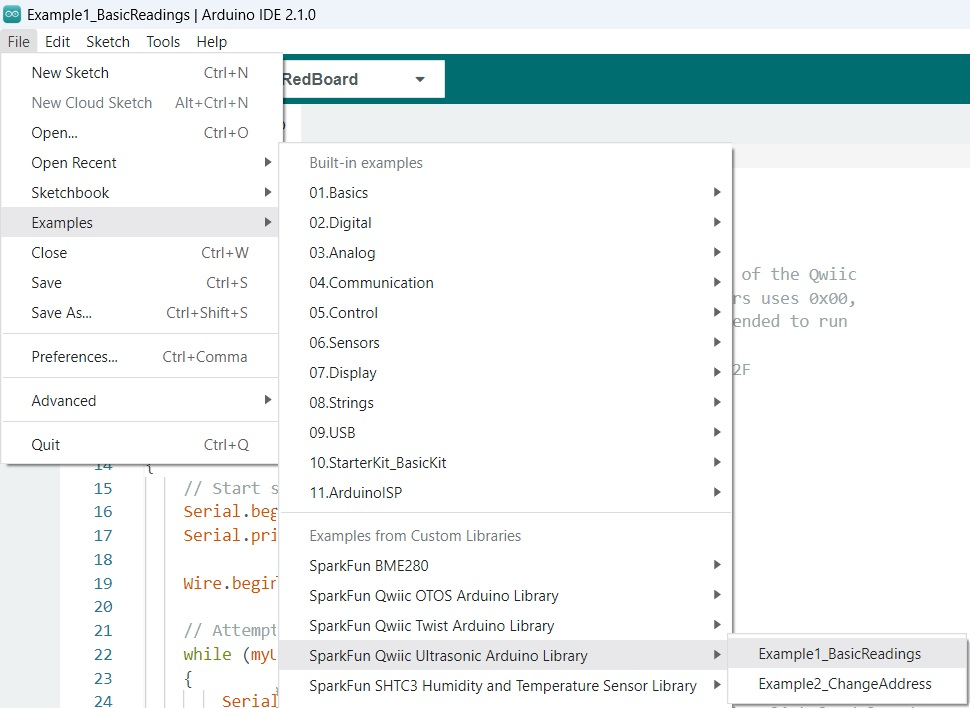
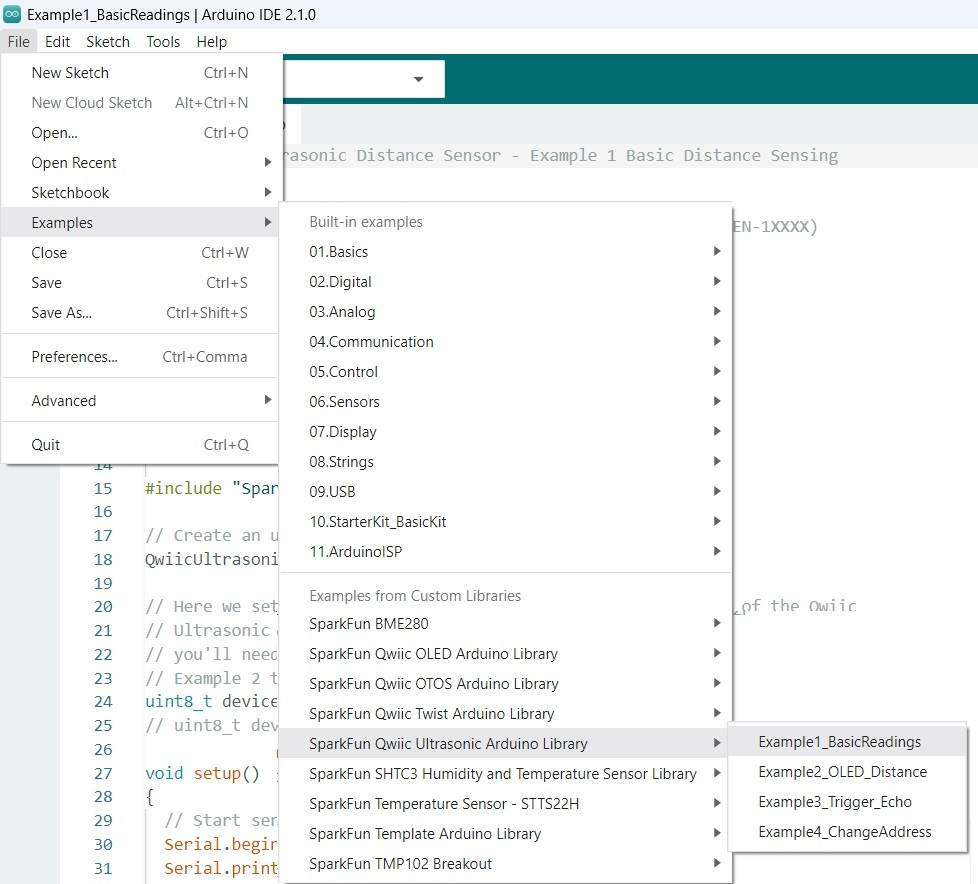
Example updates

diff --git a/docs/arduino_example.md b/docs/arduino_example.md
@@ -19,7 +19,7 @@ Alternatively, you can expand the link below and copy and paste the code into a 
 
 ??? "Example 1 Arduino Code"
 	```
-	--8<-- "https://raw.githubusercontent.com/sparkfun/SparkFun_Qwiic_Ultrasonic_Arduino_Library/main/examples/Example1_BasicReadings/Example1_BasicReadings.ino"
+	--8<-- "https://raw.githubusercontent.com/sparkfun/SparkFun_Qwiic_Ultrasonic_Arduino_Library/v10/examples/Example1_BasicReadings/Example1_BasicReadings.ino"
 	```
 
 
@@ -34,12 +34,18 @@ Note the output change when the mouse is moved closer to the sensor.
 
 
 
-<!--
-### Expanding Example 1
+### Example 2
 
 Let's add in an LCD screen to display our measurements. 
 
-To display the sensor readings on the connected Qwiic OLED, we will use three Adafruit libraries:
+To display the sensor readings on the connected Qwiic OLED, we will need to install the SparkFun Qwiic OLED library. You can install this library to automatically in the Arduino IDE's Library Manager by searching for "**SparkFun Qwiic OLED**". Or you can manually download it from the [GitHub repository](https://github.com/sparkfun/SparkFun_Qwiic_OLED_Arduino_Library). 
+
+<center>
+	[Download the SparkFun Qwiic OLED Library (ZIP)](https://github.com/sparkfun/SparkFun_Qwiic_OLED_Arduino_Library/archive/refs/heads/main.zip){ .md-button .md-button--primary }
+</center>
+
+
+<!-- use three Adafruit libraries:
 
 * [Adafruit BusIO GitHub](https://github.com/adafruit/Adafruit_BusIO)
 * [Adafruit GFX GitHub](https://github.com/adafruit/Adafruit-GFX-Library)
@@ -83,11 +89,43 @@ You can install this library to automatically in the Arduino IDE's Library Manag
 
 </div>
 
+-->
 
 
-<!--
+To find Example 2, go to **File** > **Examples** > **SparkFun Qwiic Ultrasonic Arduino Library** > **Example2_OLED_Distance**:
+
+
+<figure markdown>
+[![Ultrasonic Arduino Example 2](assets/img/Example2_Menu.jpg){ width="90%" }](assets/img/Example2_Menu.jpg "Click to enlarge")
+<figcaption markdown>Finding Example 2</figcaption>
+</figure>
+
+Alternatively, you can expand the link below and copy and paste the code into a shiny new Arduino sketch: 
+
+??? "Example 2 Arduino Code"
+	```
+	--8<-- "https://raw.githubusercontent.com/sparkfun/SparkFun_Qwiic_Ultrasonic_Arduino_Library/v10/examples/Example2_OLED_Distance/Example2_OLED_Distance.ino"
+	```
+
+We have code, now let's hookup the hardware! The Qwiic system makes this example quite literally plug and play. Use Qwiic cables to make your hardware setup look like this: 
+
+<figure markdown>
+[![Example 2 Hardware Hookup](assets/img/24805-Ultrasonic-Distance-Sensor-Action-4.jpg){ width="90%" }](assets/img/24805-Ultrasonic-Distance-Sensor-Action-4.jpg "Click to enlarge")
+<figcaption markdown>Example 2 Hardware Hookup</figcaption>
+</figure>
+
+
+Make sure you've selected the correct board and port in the Tools menu and then hit the upload button. Once the code has finished uploading, you should see something similar to the following. 
+
+<figure markdown>
+[![Ultrasonic Distance Sensor Arduino Example 2 Output](assets/img/Example2_Output.jpg){ width="90%" }](assets/img/Example2_Output.jpg "Click to enlarge")
+<figcaption markdown>Example 2 Output</figcaption>
+</figure>
+
+
 Try moving an object (like your hand or a dinosaur) closer to the sensor - notice the output of the OLED shows you how close the object is! Grr. Rawr!
 
+<!--
 <figure markdown>
 [![Oh no! A dinosaur is approaching distance sensor and now it's only 61mm away!](https://cdn.sparkfun.com/assets/learn_tutorials/1/5/9/8/Ultrasonic_HC-SR04.gif){ width="90%" }](https://cdn.sparkfun.com/assets/learn_tutorials/1/5/9/8/Ultrasonic_HC-SR04.gif "Click to enlarge")
 <figcaption markdown>Curse your sudden but inevitable betrayal!</figcaption>

diff --git a/docs/hardware_overview.md b/docs/hardware_overview.md
@@ -50,15 +50,48 @@ Ideally, power will be supplied via the Qwiic connectors on either side of the b
 <figcaption markdown>Power Pins</figcaption>
 </figure>
 
-
 ## Trigger and Echo Pins
 
-If you (for some crazy reason) don't want to utilize the Qwiic connectors, we've broken out the Trigger and Echo pins as PTH. We've included headers that can be soldered in place. 
+The Trigger and Echo pins are available as plated through holes to manually calculate the distance using the Ultrasonic Distance Sensor. To use, pull TRIG HIGH and then LOW, wait for the ECHO pin to go HIGH and then take the time in between to calculate the distance to the object. For more information on how this works, check out Example 3 later in this guide. 
 
 <figure markdown>
 [![Trigger and Echo Pins](assets/img/24805_SparkFun_Ultrasonic_Distance_Sensor-TriggerandEcho.jpg){ width="600" }](assets/img/24805_SparkFun_Ultrasonic_Distance_Sensor-TriggerandEcho.jpg "Click to enlarge")
 <figcaption markdown>Trigger and Echo Pins</figcaption>
 </figure>
+
+## Testpoint Pads
+
+We've provided a number of open pads on the back of the board.
+
+
+
+### I2C Pads
+
+Should you wish to avoid using the Qwiic connectors, you can use these two pads (along with the power PTH pins) to still take advantage of the I<sup>2</sup>C communication protocols. 
+
+<figure markdown>
+[![I2C Testpoint Pads](assets/img/24805_SparkFun_Ultrasonic_Distance_Sensor-I2CPads.jpg){ width="600" }](assets/img/24805_SparkFun_Ultrasonic_Distance_Sensor-I2CPads.jpg "Click to enlarge")
+<figcaption markdown>I<sup>2</sup>C Testpoint Pads</figcaption>
+</figure>
+
+### Single Wire Interface Module (SWIM)
+
+SWIM, INT, and NRST are all part of the "Single Wire Interface Module (SWIM)" used for programming the onboard STM8 microcontroller and for most users, can be effectively ignored. For those who wish to dive into the deep end and tweak the firmware, these pads are available. Requirements include ST Visual Develop (the ST Progamming Software bundled with Visual Develop), a COSMIC compiler license, and a USB to SWIM adapter.
+
+<figure markdown>
+[![SWIM Testpoint Pads](assets/img/24805_SparkFun_Ultrasonic_Distance_Sensor-SWIMPads.jpg){ width="600" }](assets/img/24805_SparkFun_Ultrasonic_Distance_Sensor-SWIMPads.jpg "Click to enlarge")
+<figcaption markdown>SWIM Testpoint Pads</figcaption>
+</figure>
+
+### ADDR_RST 
+
+ADDR_RST resets the address to 0x2F. 
+
+<figure markdown>
+[![ADDR_RST Testpoint Pad](assets/img/24805_SparkFun_Ultrasonic_Distance_Sensor-ADDR_RSTPads.jpg){ width="600" }](assets/img/24805_SparkFun_Ultrasonic_Distance_Sensor-ADDR_RSTPads.jpg "Click to enlarge")
+<figcaption markdown>ADDR_RST Testpoint Pad</figcaption>
+</figure>
+
 
 
 ## Jumpers
